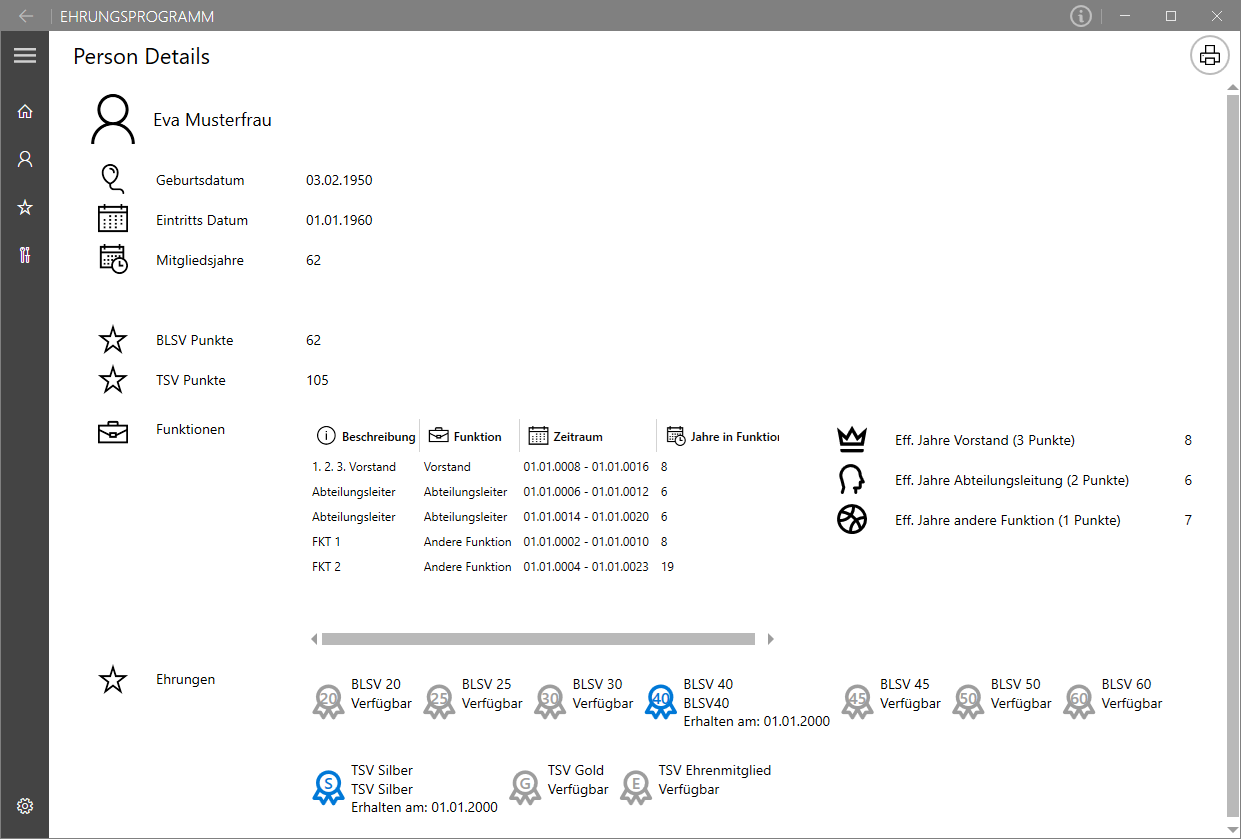
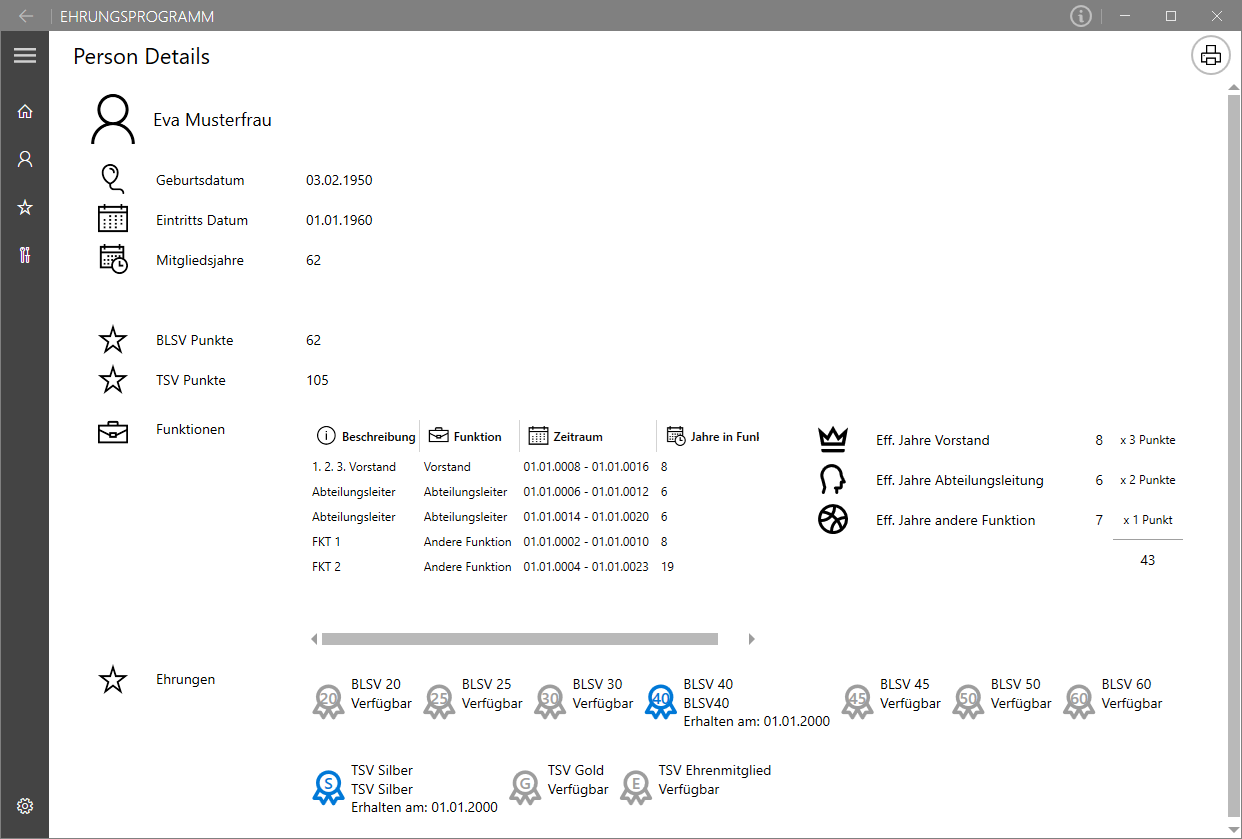
Small visual adaptions to PersonDetailPage (effective years overview)

diff --git a/Ehrungsprogramm/Views/PersonDetailPage.xaml b/Ehrungsprogramm/Views/PersonDetailPage.xaml
@@ -12,6 +12,7 @@
     xmlns:iconPacks="http://metro.mahapps.com/winfx/xaml/iconpacks"
     xmlns:icons="http://metro.mahapps.com/winfx/xaml/iconpacks"
     xmlns:Dialog="clr-namespace:MahApps.Metro.Controls.Dialogs;assembly=MahApps.Metro"
+    xmlns:coreServices="clr-namespace:Ehrungsprogramm.Core.Services;assembly=Ehrungsprogramm.Core"
     Dialog:DialogParticipation.Register="{Binding}"
     mc:Ignorable="d"
     d:DesignHeight="950" d:DesignWidth="1300">
@@ -103,16 +104,26 @@
                             <RowDefinition Height="40"/>
                             <RowDefinition Height="40"/>
                             <RowDefinition Height="40"/>
+                            <RowDefinition Height="40"/>
                         </Grid.RowDefinitions>
                         <Grid.ColumnDefinitions>
                             <ColumnDefinition Width="80"/>
-                            <ColumnDefinition Width="250"/>
+                            <ColumnDefinition Width="180"/>
                             <ColumnDefinition Width="50"/>
+                            <ColumnDefinition Width="90"/>
                         </Grid.ColumnDefinitions>
 
                         <iconPacks:PackIconMaterial Grid.Row="0" Grid.Column="0" Kind="CrownOutline" Width="30" Height="30" VerticalAlignment="Center" HorizontalAlignment="Center"/>
                         <TextBlock Grid.Row="0" Grid.Column="1" Margin="3" VerticalAlignment="Center" Text="{x:Static properties:Resources.EffectiveBoardMemberYears}" FontSize="{StaticResource MediumFontSize}"/>
                         <TextBlock Grid.Row="0" Grid.Column="2" Text="{Binding Person.EffectiveBoardMemberYears}" VerticalAlignment="Center" HorizontalAlignment="Right" FontSize="{StaticResource MediumFontSize}"/>
+                        <TextBlock Grid.Row="0" Grid.Column="3" VerticalAlignment="Center" HorizontalAlignment="Center">
+                            <TextBlock.Text>
+                                <MultiBinding StringFormat="x {0} {1}">
+                                    <Binding Source="{x:Static coreServices:PersonService.POINTS_PER_BOARD_MEMBER_YEAR}"/>
+                                    <Binding Source="{x:Static properties:Resources.PointsString}"/>
+                                </MultiBinding>
+                            </TextBlock.Text>
+                        </TextBlock>
 
                         <iconPacks:PackIconUnicons Grid.Row="1" Grid.Column="0" Kind="HeadSide" Width="30" Height="30" VerticalAlignment="Center" HorizontalAlignment="Center" RenderTransformOrigin="0.5,0.5">
                             <iconPacks:PackIconUnicons.RenderTransform>
@@ -123,10 +134,29 @@
                         </iconPacks:PackIconUnicons>
                         <TextBlock Grid.Row="1" Grid.Column="1" Margin="3" VerticalAlignment="Center" Text="{x:Static properties:Resources.EffectiveHeadOfDepartementYears}" FontSize="{StaticResource MediumFontSize}"/>
                         <TextBlock Grid.Row="1" Grid.Column="2" Text="{Binding Person.EffectiveHeadOfDepartementYears}" VerticalAlignment="Center" HorizontalAlignment="Right" FontSize="{StaticResource MediumFontSize}"/>
-
+                        <TextBlock Grid.Row="1" Grid.Column="3" VerticalAlignment="Center" HorizontalAlignment="Center">
+                            <TextBlock.Text>
+                                <MultiBinding StringFormat="x {0} {1}">
+                                    <Binding Source="{x:Static coreServices:PersonService.POINTS_PER_HEAD_OF_DEPARTEMENT_YEAR}"/>
+                                    <Binding Source="{x:Static properties:Resources.PointsString}"/>
+                                </MultiBinding>
+                            </TextBlock.Text>
+                        </TextBlock>
+                        
                         <iconPacks:PackIconUnicons Grid.Row="2" Grid.Column="0" Kind="Basketball" Width="30" Height="30" VerticalAlignment="Center" HorizontalAlignment="Center"/>
                         <TextBlock Grid.Row="2" Grid.Column="1" Margin="3" VerticalAlignment="Center" Text="{x:Static properties:Resources.EffectiveOtherFunctionsYears}" FontSize="{StaticResource MediumFontSize}"/>
                         <TextBlock Grid.Row="2" Grid.Column="2" Text="{Binding Person.EffectiveOtherFunctionsYears}" VerticalAlignment="Center" HorizontalAlignment="Right" FontSize="{StaticResource MediumFontSize}"/>
+                        <TextBlock Grid.Row="2" Grid.Column="3" VerticalAlignment="Center" HorizontalAlignment="Center">
+                            <TextBlock.Text>
+                                <MultiBinding StringFormat="x {0} {1}">
+                                    <Binding Source="{x:Static coreServices:PersonService.POINTS_PER_OTHER_FUNCTIONS_YEAR}"/>
+                                    <Binding Source="{x:Static properties:Resources.PointString}"/>
+                                </MultiBinding>
+                            </TextBlock.Text>
+                        </TextBlock>
+                        
+                        <Separator Grid.Row="3" Grid.Column="3" Margin="10,0" VerticalAlignment="Top"/>
+                        <TextBlock Grid.Row="3" Grid.Column="3" Text="{Binding Person.ScoreTSVFunctions}" VerticalAlignment="Center" HorizontalAlignment="Center" FontSize="{StaticResource MediumFontSize}"/>
                     </Grid>
 
                     <Grid Margin="3,20,3,3" DockPanel.Dock="Left">

diff --git a/Ehrungsprogramm.Core/Services/PersonService.cs b/Ehrungsprogramm.Core/Services/PersonService.cs
@@ -17,14 +17,14 @@ namespace Ehrungsprogramm.Core.Services
     /// </summary>
     public class PersonService : IPersonService
     {
-        private const int REWARD_TSVSILVER_POINTS = 45;                             // Score needed to obtain a TSV Silver reward
-        private const int REWARD_TSVGOLD_POINTS = 70;                               // Score needed to obtain a TSV Gold reward
-        private const int REWARD_TSVHONORARY_POINTS = 85;                           // Score needed to obtain a TSV Honorary reward
+        public const int REWARD_TSVSILVER_POINTS = 45;                              // Score needed to obtain a TSV Silver reward
+        public const int REWARD_TSVGOLD_POINTS = 70;                                // Score needed to obtain a TSV Gold reward
+        public const int REWARD_TSVHONORARY_POINTS = 85;                            // Score needed to obtain a TSV Honorary reward
 
-        private const int POINTS_PER_MEMBERSHIP_YEAR = 1;                           // One point per membership year
-        private const int POINTS_PER_BOARD_MEMBER_YEAR = 3;                         // Three points per year as board member
-        private const int POINTS_PER_HEAD_OF_DEPARTEMENT_YEAR = 2;                  // Two points per year as head of departement
-        private const int POINTS_PER_OTHER_FUNCTIONS_YEAR = 1;                      // One point per year in any other function     
+        public const int POINTS_PER_MEMBERSHIP_YEAR = 1;                            // One point per membership year
+        public const int POINTS_PER_BOARD_MEMBER_YEAR = 3;                          // Three points per year as board member
+        public const int POINTS_PER_HEAD_OF_DEPARTEMENT_YEAR = 2;                   // Two points per year as head of departement
+        public const int POINTS_PER_OTHER_FUNCTIONS_YEAR = 1;                       // One point per year in any other function     
 
         private const string DATABASE_FILENAME = "Ehrungsprogramm_Persons.db";      // Filename of the database (located beside the application .exe)
 
@@ -284,10 +284,12 @@ namespace Ehrungsprogramm.Core.Services
             person.EffectiveHeadOfDepartementYears = (int)Math.Floor((headOfDepartementPeriods?.TotalDuration.TotalDays ?? 0) / 365);
             person.EffectiveOtherFunctionsYears = (int)Math.Floor((otherPeriods?.TotalDuration.TotalDays ?? 0) / 365);
 
-            person.ScoreTSV = person.MembershipYears * POINTS_PER_MEMBERSHIP_YEAR +
-                                person.EffectiveBoardMemberYears * POINTS_PER_BOARD_MEMBER_YEAR+
+            person.ScoreTSVFunctions = person.EffectiveBoardMemberYears * POINTS_PER_BOARD_MEMBER_YEAR +
                                 person.EffectiveHeadOfDepartementYears * POINTS_PER_HEAD_OF_DEPARTEMENT_YEAR +
                                 person.EffectiveOtherFunctionsYears * POINTS_PER_OTHER_FUNCTIONS_YEAR;
+
+            person.ScoreTSV = person.MembershipYears * POINTS_PER_MEMBERSHIP_YEAR +
+                                person.ScoreTSVFunctions;
 
             // ***** BLSV score *****
             person.ScoreBLSV = person.MembershipYears * 1;  // One point per year of membership

diff --git a/Ehrungsprogramm/Properties/Resources.Designer.cs b/Ehrungsprogramm/Properties/Resources.Designer.cs
@@ -180,7 +180,7 @@ namespace Ehrungsprogramm.Properties {
         }
         
         /// <summary>
-        ///   Sucht eine lokalisierte Zeichenfolge, die Eff. Board Member Years (3 points) ähnelt.
+        ///   Sucht eine lokalisierte Zeichenfolge, die Eff. Board Member Years ähnelt.
         /// </summary>
         public static string EffectiveBoardMemberYears {
             get {
@@ -189,7 +189,7 @@ namespace Ehrungsprogramm.Properties {
         }
         
         /// <summary>
-        ///   Sucht eine lokalisierte Zeichenfolge, die Eff. Head of Departement Years (2 points) ähnelt.
+        ///   Sucht eine lokalisierte Zeichenfolge, die Eff. Head of Departement Years ähnelt.
         /// </summary>
         public static string EffectiveHeadOfDepartementYears {
             get {
@@ -198,7 +198,7 @@ namespace Ehrungsprogramm.Properties {
         }
         
         /// <summary>
-        ///   Sucht eine lokalisierte Zeichenfolge, die Eff. Other Years (1 point) ähnelt.
+        ///   Sucht eine lokalisierte Zeichenfolge, die Eff. Other Years ähnelt.
         /// </summary>
         public static string EffectiveOtherFunctionsYears {
             get {
@@ -437,6 +437,24 @@ namespace Ehrungsprogramm.Properties {
         public static string PersonsPageTitle {
             get {
                 return ResourceManager.GetString("PersonsPageTitle", resourceCulture);
+            }
+        }
+        
+        /// <summary>
+        ///   Sucht eine lokalisierte Zeichenfolge, die Points ähnelt.
+        /// </summary>
+        public static string PointsString {
+            get {
+                return ResourceManager.GetString("PointsString", resourceCulture);
+            }
+        }
+        
+        /// <summary>
+        ///   Sucht eine lokalisierte Zeichenfolge, die Point ähnelt.
+        /// </summary>
+        public static string PointString {
+            get {
+                return ResourceManager.GetString("PointString", resourceCulture);
             }
         }
         

diff --git a/Ehrungsprogramm.Core/Services/CsvFileParserProWinner.cs b/Ehrungsprogramm.Core/Services/CsvFileParserProWinner.cs
@@ -182,7 +182,10 @@ namespace Ehrungsprogramm.Core.Services
                     {
                         reward.ObtainedDate = parsedRewardObtainedDate;
                     }
-                    else { person_errors.AppendLine(String.Format(Properties.Resources.ErrorCsvFileParserRewardObtainedDate, rewardDate, rewardDescription)); }
+                    else if(!person.Rewards.Rewards.Contains(reward))   // Only report the obtained date error once for each reward
+                    { 
+                        person_errors.AppendLine(String.Format(Properties.Resources.ErrorCsvFileParserRewardObtainedDate, rewardDate, rewardDescription)); 
+                    }
 
                     int parsedRewardNumber;
                     if (int.TryParse(rewardNumber, out parsedRewardNumber))

diff --git a/Ehrungsprogramm.Core/Models/Person.cs b/Ehrungsprogramm.Core/Models/Person.cs
@@ -90,6 +90,16 @@ namespace Ehrungsprogramm.Core.Models
             set => SetProperty(ref _scoreTSV, value);
         }
 
+        private int _scoreTSVFunctions;
+        /// <summary>
+        /// Number of points for the TSV functions.
+        /// </summary>
+        public int ScoreTSVFunctions
+        {
+            get => _scoreTSVFunctions;
+            set => SetProperty(ref _scoreTSVFunctions, value);
+        }
+
         private List<Function> _functions = new List<Function>();
         /// <summary>
         /// List containing all functions that a person has / had.
